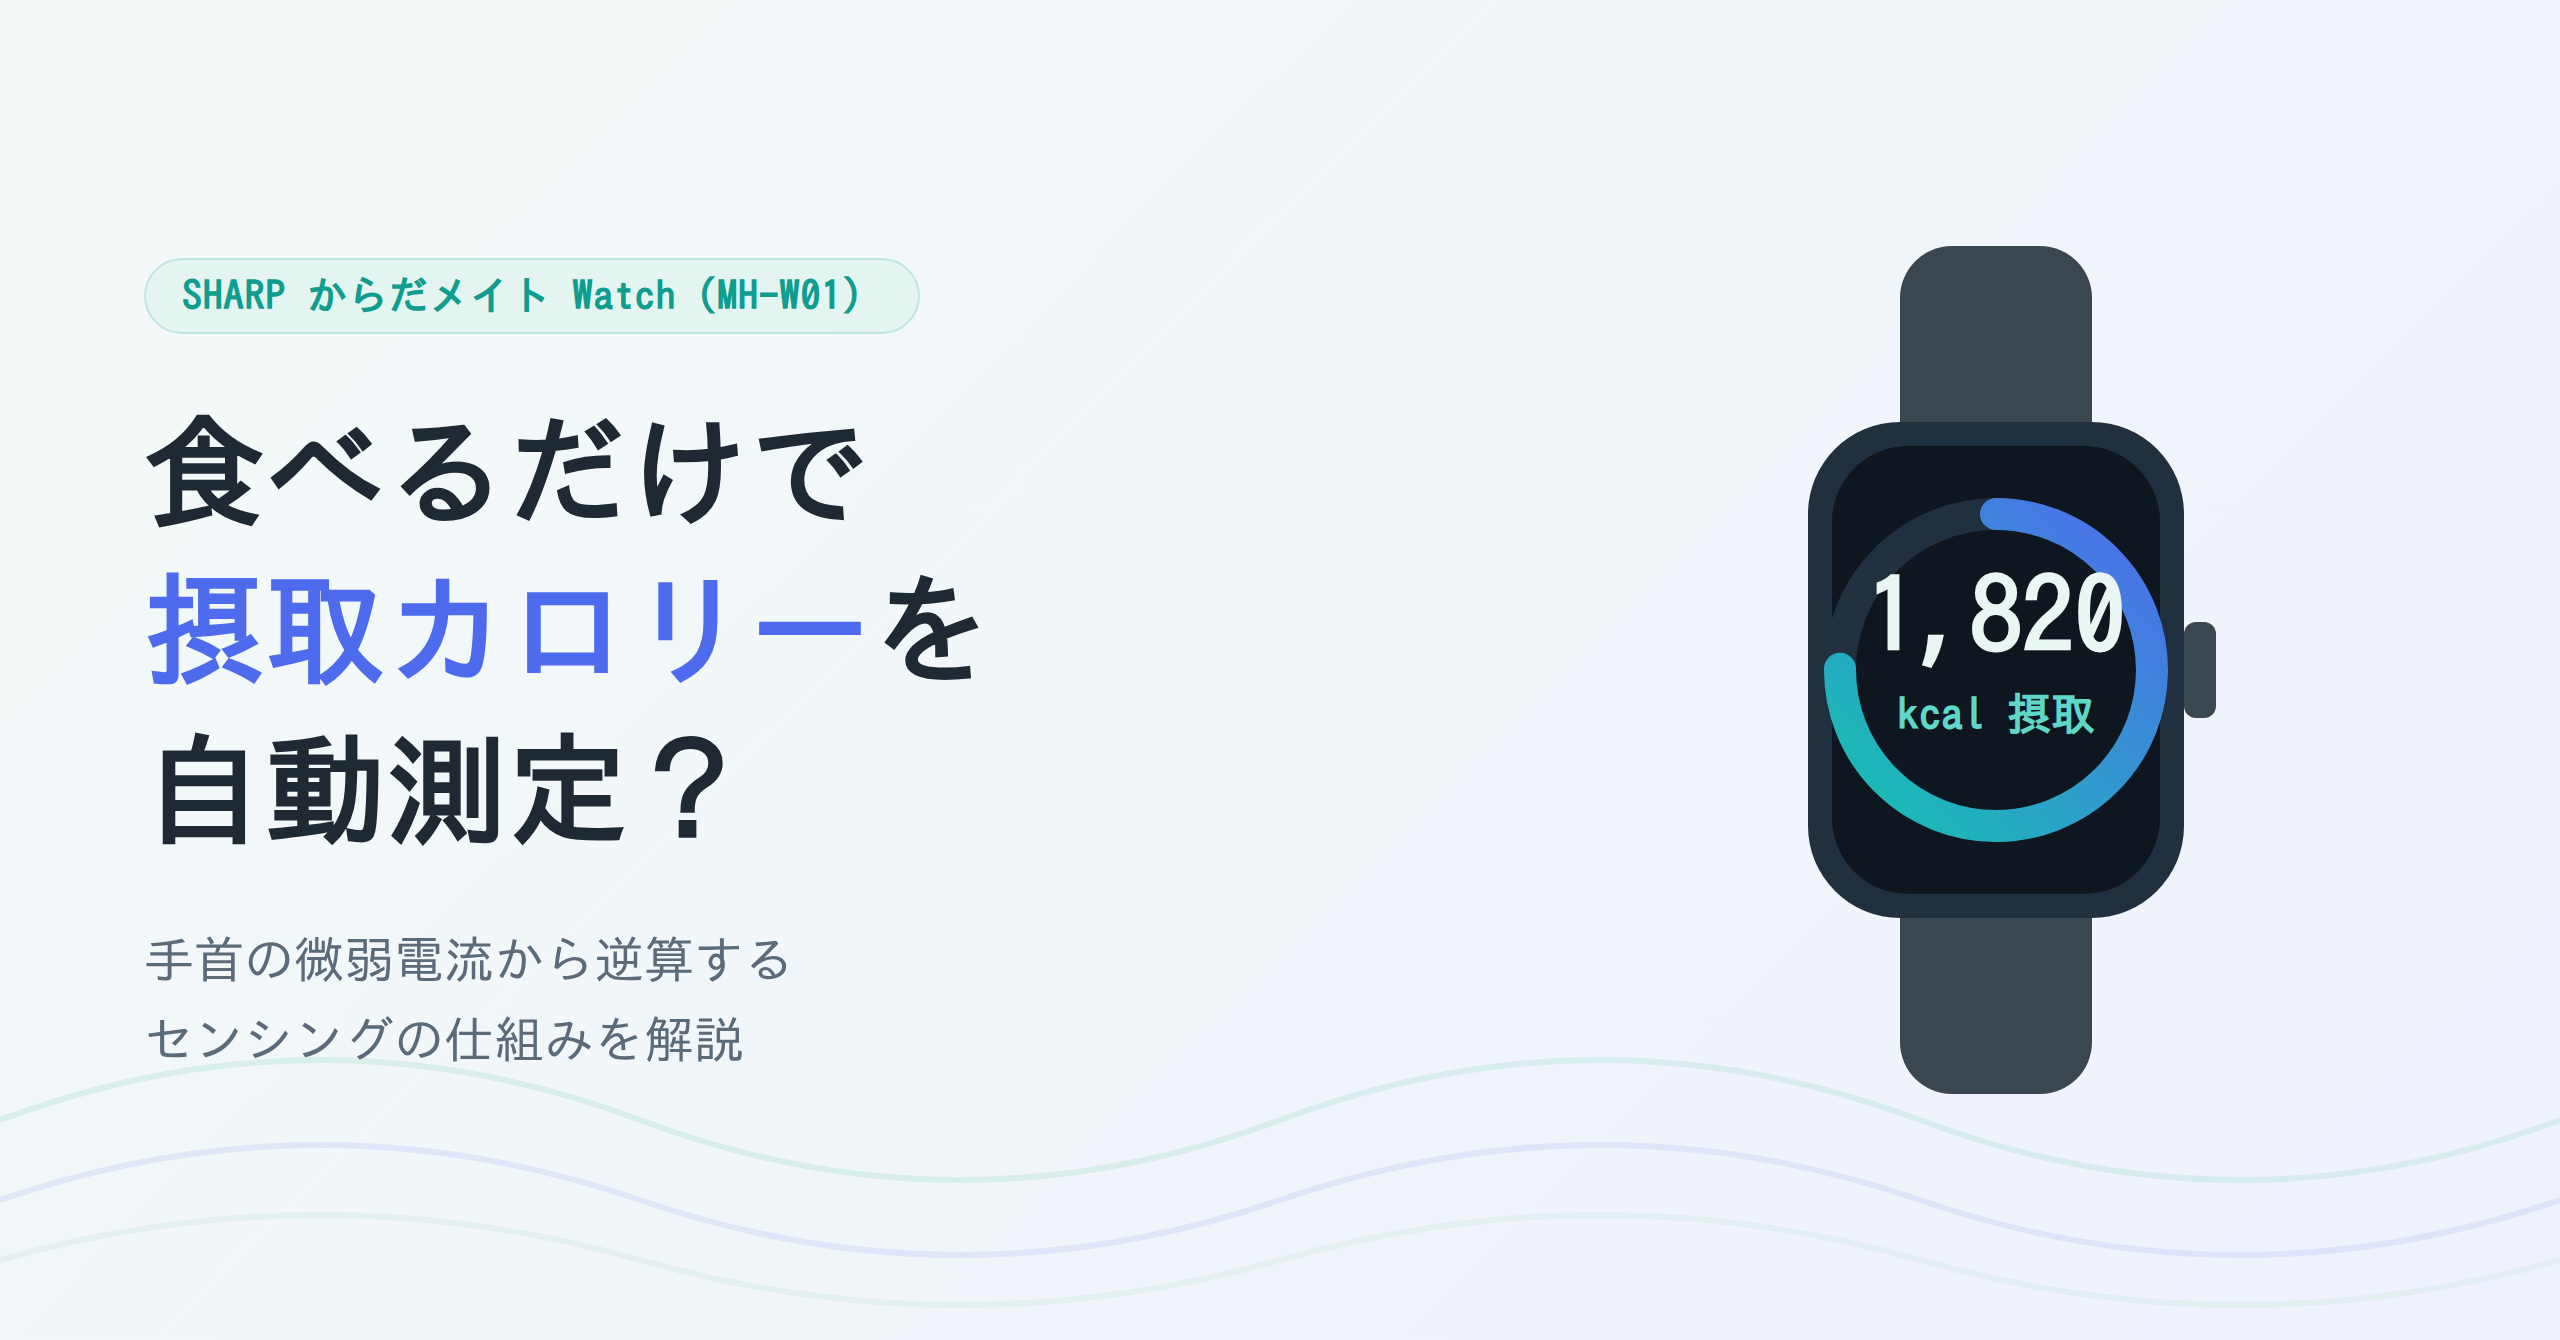
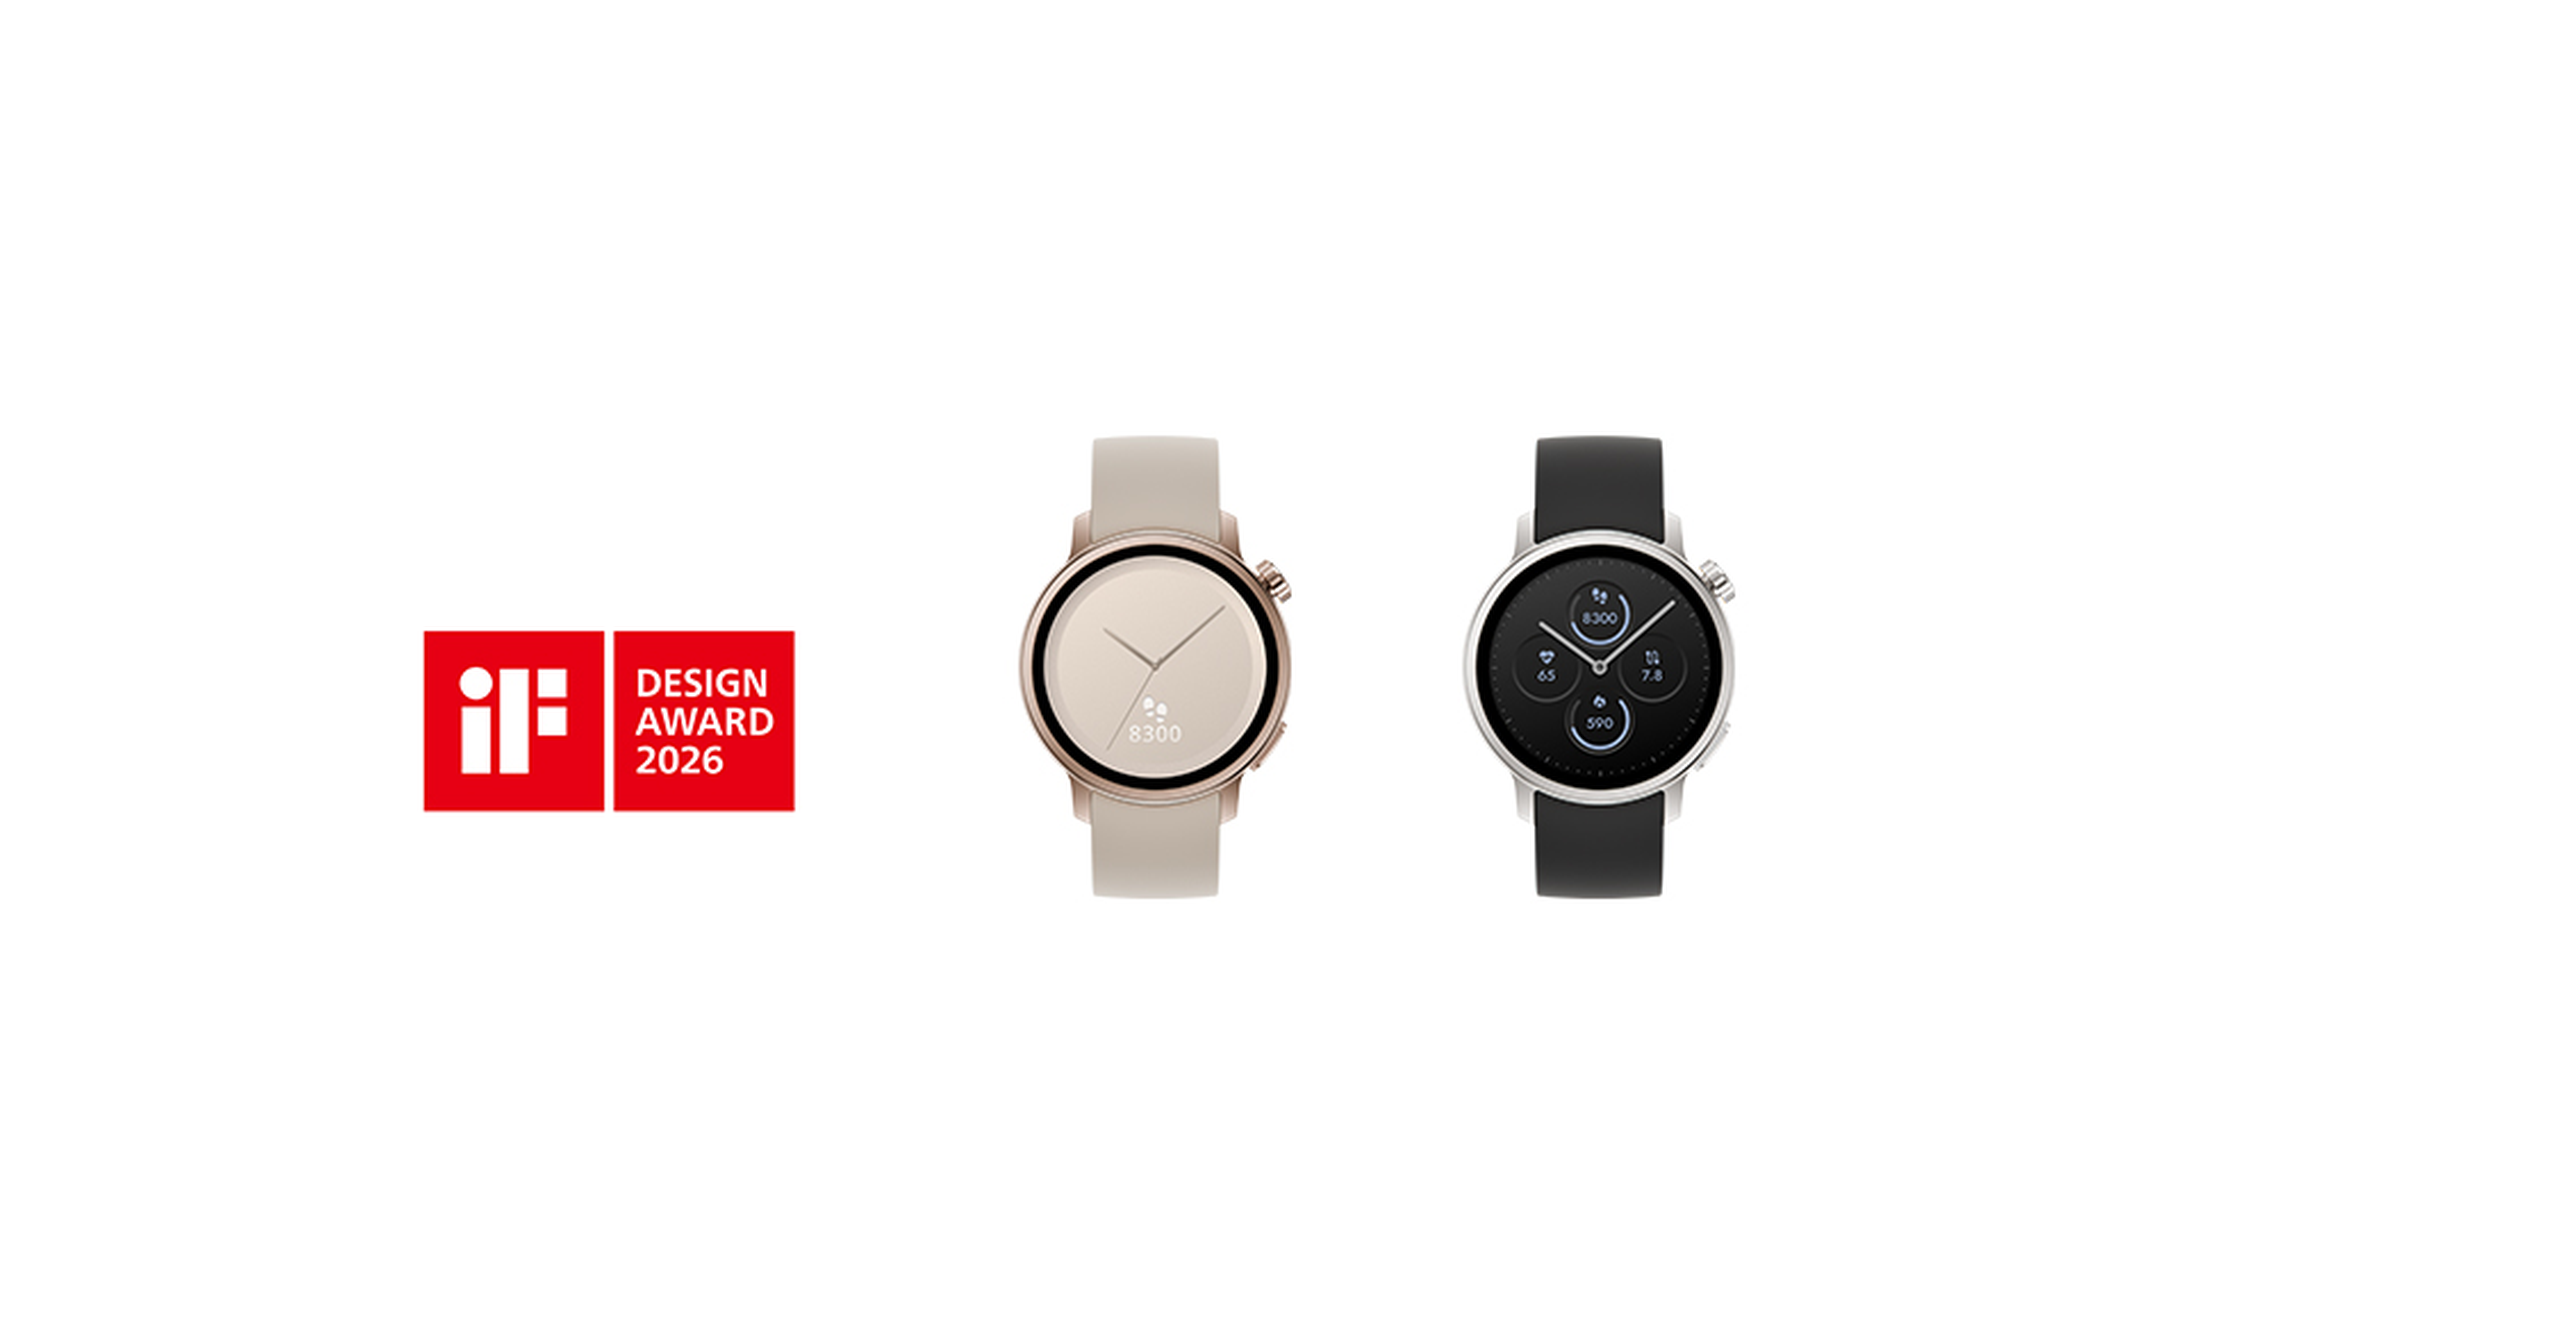
からだメイトWatch記事のアイキャッチをシャープ公式製品写真に差し替え
- 自作イラスト（角型・実物と形状が異なる）から公式製品写真（本体2色＋iFデザイン賞）へ変更
- note見出し画像サイズ（2560x1340）の白背景に無加工で配置
- 出典クレジット明記のため記事フロントマターに提供元を追記

Claude-Session: https://claude.ai/code/session_01WviYE1NEj1WnmFiHLkVp2b

diff --git a/note/karadamate-watch-calorie-algorithm/article.md b/note/karadamate-watch-calorie-algorithm/article.md
@@ -1,7 +1,7 @@
 # シャープ「からだメイト Watch」はどうやって摂取カロリーを自動測定するのか
 
 > **公開先**: note.com
-> **見出し画像**: `images/eyecatch.png`
+> **見出し画像**: `images/eyecatch.png`（シャープ公式製品写真を使用。出典: シャープ ニュースリリース <https://corporate.jp.sharp/news/260616-c.html> ／ note投稿時は画像キャプションに「画像提供：シャープ株式会社」を明記すること）
 > **noteへの貼り付け手順**: `note-paste.html` をブラウザで開き、全選択 → コピー → note本文に貼り付け（見出し・太字・箇条書き・リンクが変換されます）。本文中の「▼画像1〜3」の位置に `images/` の各PNGを手動アップロード。
 > **ハッシュタグ案**: #ヘルスケア #スマートウォッチ #センサー #ウェアラブル
 